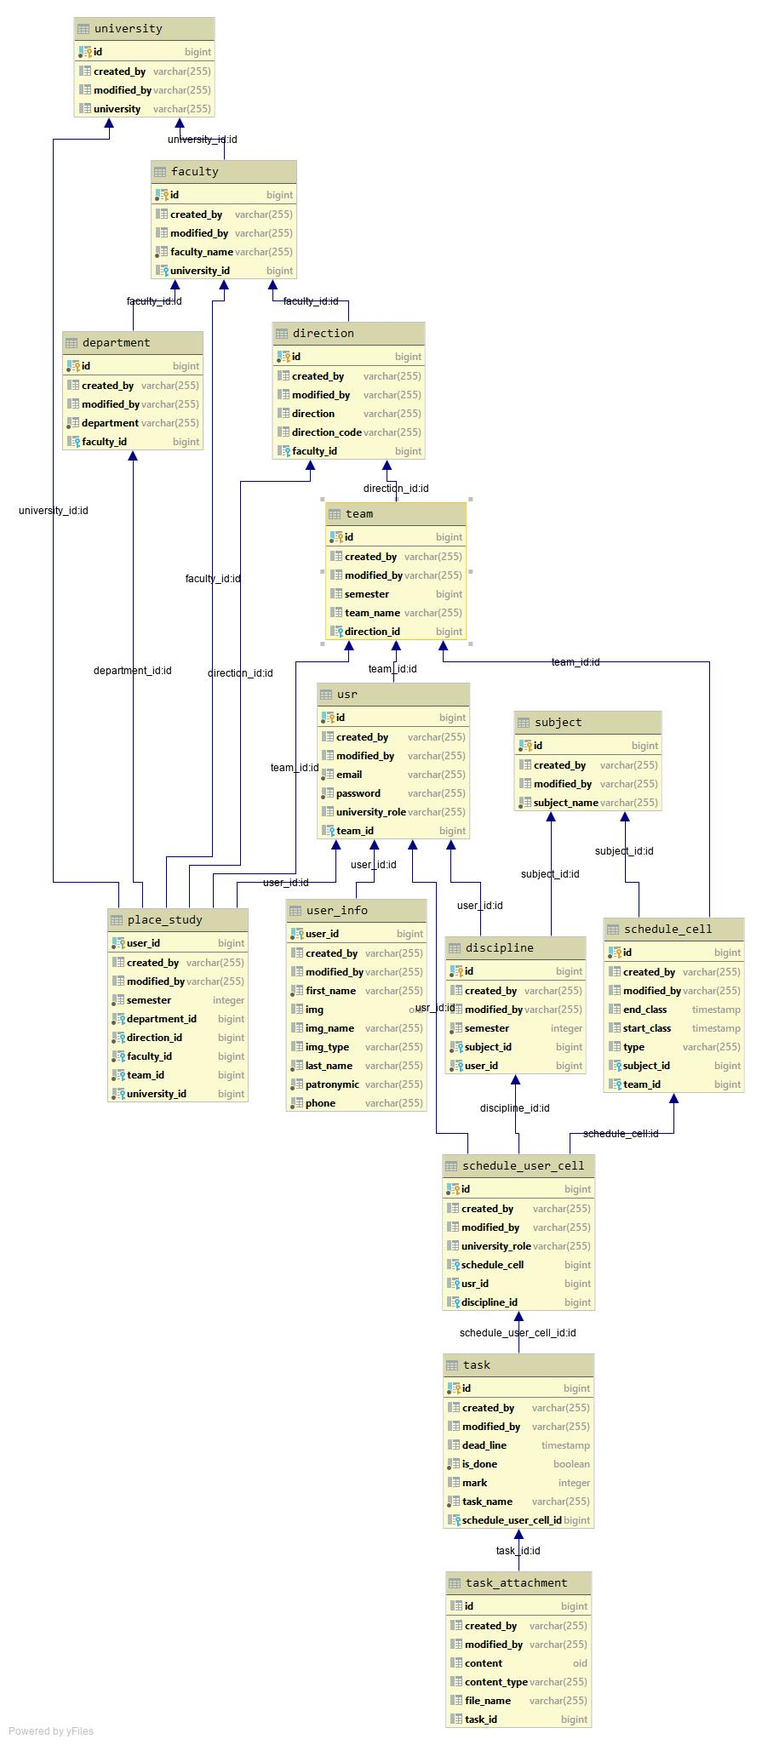
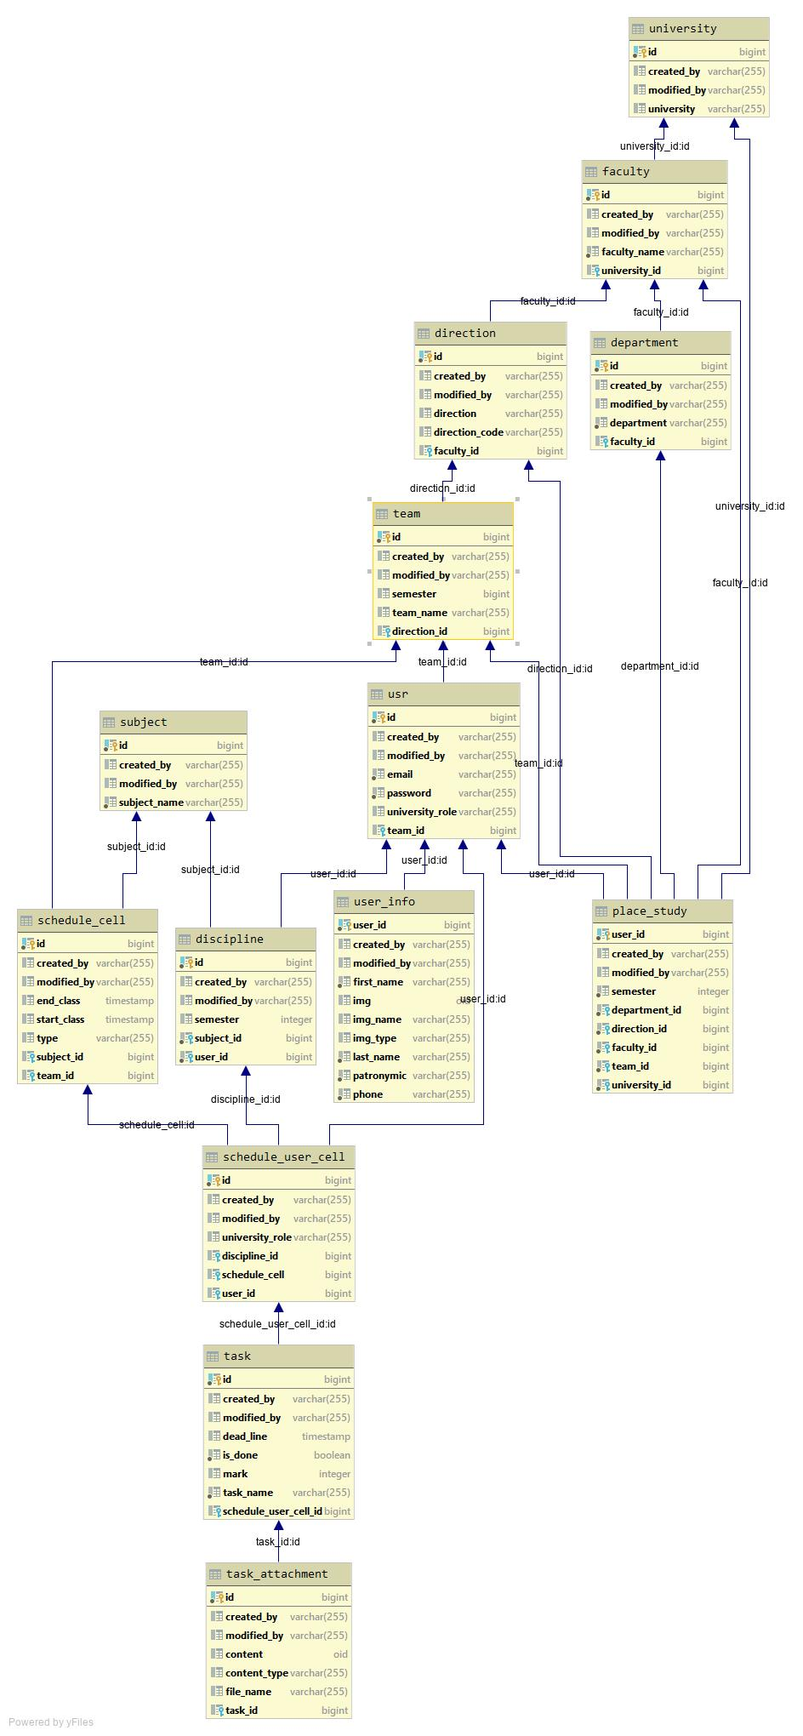
Убраны неиспользуемые pathVariable, Поиск task приведен в работоспособность. Проверено в postman. PathVariable окончательно вынесены в интерфейс. Оптимизированы URL для поиска task. Обновлён API.md Обновлено изображение схемы БД (один из usr_id исправлен на user_id, редуцированное поле появляться бо

diff --git a/endpoint/src/main/java/ru/studentsplatform/backend/endpoint/rest/crud/TaskCRUDController.java b/endpoint/src/main/java/ru/studentsplatform/backend/endpoint/rest/crud/TaskCRUDController.java
@@ -23,85 +23,65 @@ public interface TaskCRUDController extends AbstractCRUDController<TaskDTO> {
 	/**
 	 * Позволяет прикреплять к студенческой задаче файлы с решением.
 	 *
-	 * @param userId Id пользователя, которому принадлежит задача
-	 * @param cellId Id ячейки расписания пользователя, к которой прикреплена задача
 	 * @param taskId Идентификатор задачи, к которой будет прикреплено решение.
 	 * @param files  Файлы, которые будут прикреплены к залдаче
 	 * @return Ответ со статусом 200(ok),
 	 * содержащий сведения о том, удачно ли прикреплены все полученные файлы.
 	 */
-	@PostMapping("user/{userId}/schedule/cell/{cellId}/task/{taskId}/file")
-	ResponseEntity<Boolean> taskAddFiles(@PathVariable(name = "userId") Long userId,
-										 @PathVariable(name = "cellId") Long cellId,
-										 @PathVariable(name = "taskId") Long taskId,
+	@PostMapping("/{taskId}/file")
+	ResponseEntity<Boolean> taskAddFiles(@PathVariable(name = "taskId") Long taskId,
 										 @RequestParam(name = "file") MultipartFile... files);
 
 	/**
 	 * Загружает выбранный файл на компьютер.
 	 *
-	 * @param userId Id пользователя, которому принадлежит задача
-	 * @param cellId Id ячейки расписания пользователя, к которой прикреплена задача
 	 * @param taskId Id задачи, к которой прикреплен файл для загрузки
 	 * @param fileId Id файла дял загрузки
 	 * @return тело веб-страницы
 	 */
-	@GetMapping("user/{userId}/schedule/cell/{cellId}/task/{taskId}/file/{fileId}")
-	ResponseEntity<Resource> getFileRelatedToTask(@PathVariable(name = "userId") Long userId,
-												  @PathVariable(name = "cellId") Long cellId,
-												  @PathVariable(name = "taskId") Long taskId,
+	@GetMapping("{taskId}/file/{fileId}")
+	ResponseEntity<Resource> getFileRelatedToTask(@PathVariable(name = "taskId") Long taskId,
 												  @PathVariable(name = "fileId") Long fileId);
 
 	/**
 	 * Создает на основе полученных данных объект студенчекой задачи.
 	 *
-	 * @param userId Id пользователя, которому будет принадлежать задача
 	 * @param cellId Id ячейки расписания пользователя, к которой бует прикреплена задача
 	 * @param dto    Объект, содержащий данные, полученные от пользователя.
 	 * @return Ответ со статусом 200(ok), содержащий сведения о сохраненной сущности.
 	 */
-	@PostMapping("user/{userId}/schedule/cell/{cellId}/task")
-	ResponseEntity<TaskDTO> createTask(@PathVariable(name = "userId") Long userId,
-									   @PathVariable(name = "cellId") Long cellId,
+	@PostMapping("/cell/{cellId}/create")
+	ResponseEntity<TaskDTO> createTask(@PathVariable(name = "cellId") Long cellId,
 									   @RequestBody TaskDTO dto);
 
 	/**
 	 * Возвращает сведения о всех задачах, прикрепленных к ячейке расписания пользователя.
 	 *
-	 * @param userId Id пользователя, которому принадлежат задачи
 	 * @param cellId Id ячейки расписания пользователя, к которой прикреплены задачи
 	 * @return Ответ с кодом 200(ok), содержащий сведения о всех задачах, закрепленных за ячейкой
 	 */
-	@GetMapping("user/{userId}/schedule/cell/{cellId}/tasks")
-	ResponseEntity<List<TaskDTO>> getAllTasks(@PathVariable(name = "userId") Long userId,
-											  @PathVariable(name = "cellId") Long cellId);
+	@GetMapping("/cell/{cellId}")
+	ResponseEntity<List<TaskDTO>> getAllTasksForCell(@PathVariable(name = "cellId") Long cellId);
 
 	/**
 	 * Возвращает сведения о задаче с выбраным Id.
 	 *
-	 * @param userId Id пользователя, которому принадлежит задача
-	 * @param cellId Id ячейки расписания пользователя, к которой прикреплена задача
 	 * @param taskId Id задачи студента
 	 * @return Ответ с кодом 200(ok), содержащий сведения о задаче
 	 */
-	@GetMapping("user/{userId}/schedule/cell/{cellId}/task/{taskId}")
-	ResponseEntity<TaskDTO> getTask(@PathVariable(name = "userId") Long userId,
-									@PathVariable(name = "cellId") Long cellId,
-									@PathVariable(name = "taskId") Long taskId);
+	@GetMapping("/{taskId}")
+	ResponseEntity<TaskDTO> getTask(@PathVariable(name = "taskId") Long taskId);
 
 	/**
 	 * Возвращает сведения о задачах для конкретного пользователя
 	 * по степени их завершенности.
 	 *
 	 * @param userId Id пользователя, которому принадлежит задача
-	 * @param cellId Id ячейки расписания пользователя, к которой прикреплена задача
-	 * @param taskId Id задачи студента
 	 * @param isDone Завершена ли задача
 	 * @return Ответ с кодом 200(ok), содержащий сведения о задачах
 	 */
-	@GetMapping("user/{userId}/schedule/cell/{cellId}/task/{taskId}/isDone/{isDone}")
+	@GetMapping("user/{userId}/isDone/{isDone}")
 	ResponseEntity<List<TaskDTO>> getByDoneTaskForUser(@PathVariable(name = "userId") Long userId,
-													   @PathVariable(name = "cellId") Long cellId,
-													   @PathVariable(name = "taskId") Long taskId,
 													   @PathVariable(name = "isDone") Boolean isDone);
 
 	/**
@@ -109,46 +89,32 @@ public interface TaskCRUDController extends AbstractCRUDController<TaskDTO> {
 	 * по семестру.
 	 *
 	 * @param userId Id пользователя, которому принадлежит задача
-	 * @param cellId Id ячейки расписания пользователя, к которой прикреплена задача
-	 * @param taskId Id задачи студента
 	 * @param semester номер семестра
 	 * @return Ответ с кодом 200(ok), содержащий сведения о задачах
 	 */
-	@GetMapping("user/{userId}/schedule/cell/{cellId}/task/{taskId}/semester/{semester}")
+	@GetMapping("user/{userId}/semester/{semester}")
 	ResponseEntity<List<TaskDTO>> getTaskBySemesterForUser(@PathVariable(name = "userId") Long userId,
-														   @PathVariable(name = "cellId") Long cellId,
-														   @PathVariable(name = "taskId") Long taskId,
-														   @PathVariable(name = "semester") Long semester);
+														   @PathVariable(name = "semester") Integer semester);
 
 	/**
 	 * Возвращает сведения о задачах для конкретного пользователя
 	 * по предмету.
 	 *
 	 * @param userId Id пользователя, которому принадлежит задача
-	 * @param cellId Id ячейки расписания пользователя, к которой прикреплена задача
-	 * @param taskId Id задачи студента
 	 * @param subjectId Id предмета
 	 * @return Ответ с кодом 200(ok), содержащий сведения о задачах
 	 */
-	@GetMapping("user/{userId}/schedule/cell/{cellId}/task/{taskId}/subject/{subjectId}")
+	@GetMapping("user/{userId}/subject/{subjectId}")
 	ResponseEntity<List<TaskDTO>> getTaskBySubjectForUser(@PathVariable(name = "userId") Long userId,
-														  @PathVariable(name = "cellId") Long cellId,
-														  @PathVariable(name = "taskId") Long taskId,
 														  @PathVariable(name = "subjectId") Long subjectId);
 
 	/**
 	 * Возвращает сведения о задачах для группы студентов.
 	 *
-	 * @param userId Id пользователя, которому принадлежит задача
-	 * @param cellId Id ячейки расписания пользователя, к которой прикреплена задача
-	 * @param taskId Id задачи студента
 	 * @param groupID Id группы студентов
 	 * @return Ответ с кодом 200(ok), содержащий сведения о задачах
 	 */
-	@GetMapping("user/{userId}/schedule/cell/{cellId}/task/{taskId}/group/{subjectId}")
-	ResponseEntity<List<TaskDTO>> getTaskByGroup(@PathVariable(name = "userId") Long userId,
-														  @PathVariable(name = "cellId") Long cellId,
-														  @PathVariable(name = "taskId") Long taskId,
-														  @PathVariable(name = "groupId") Long groupID);
+	@GetMapping("group/{groupId}")
+	ResponseEntity<List<TaskDTO>> getTaskByGroup(@PathVariable(name = "groupId") Long groupID);
 }
 

diff --git a/endpoint/src/main/java/ru/studentsplatform/backend/endpoint/rest/crud/impl/TaskCRUDControllerImpl.java b/endpoint/src/main/java/ru/studentsplatform/backend/endpoint/rest/crud/impl/TaskCRUDControllerImpl.java
@@ -5,10 +5,7 @@ import org.springframework.core.io.Resource;
 import org.springframework.http.HttpHeaders;
 import org.springframework.http.MediaType;
 import org.springframework.http.ResponseEntity;
-import org.springframework.web.bind.annotation.PathVariable;
-import org.springframework.web.bind.annotation.RequestBody;
 import org.springframework.web.bind.annotation.RequestMapping;
-import org.springframework.web.bind.annotation.RequestParam;
 import org.springframework.web.bind.annotation.RestController;
 import org.springframework.web.multipart.MultipartFile;
 import ru.studentsplatform.backend.domain.dto.university.TaskDTO;
@@ -50,9 +47,7 @@ public class TaskCRUDControllerImpl implements TaskCRUDController {
 	 * {@inheritDoc}
 	 */
 	@Override
-	public ResponseEntity<TaskDTO> getTask(@PathVariable(name = "userId") Long userId,
-										   @PathVariable(name = "cellId") Long cellId,
-										   @PathVariable(name = "taskId") Long taskId) {
+	public ResponseEntity<TaskDTO> getTask(Long taskId) {
 
 		Task task = taskService.getById(taskId);
 		TaskDTO result = taskMapper.taskToTaskDTO(task);
@@ -64,8 +59,7 @@ public class TaskCRUDControllerImpl implements TaskCRUDController {
 	 * {@inheritDoc}
 	 */
 	@Override
-	public ResponseEntity<List<TaskDTO>> getAllTasks(@PathVariable(name = "userId") Long userId,
-													 @PathVariable(name = "cellId") Long cellId) {
+	public ResponseEntity<List<TaskDTO>> getAllTasksForCell(Long cellId) {
 
 		List<Task> taskList = taskService.getByUserCell(cellId);
 		List<TaskDTO> result = taskMapper.listTaskToTaskDTO(taskList);
@@ -77,9 +71,8 @@ public class TaskCRUDControllerImpl implements TaskCRUDController {
 	 * {@inheritDoc}
 	 */
 	@Override
-	public ResponseEntity<TaskDTO> createTask(@PathVariable(name = "userId") Long userId,
-											  @PathVariable(name = "cellId") Long cellId,
-											  @RequestBody TaskDTO dto) {
+	public ResponseEntity<TaskDTO> createTask(Long cellId,
+											  TaskDTO dto) {
 
 		dto.setScheduleUserCellId(cellId);
 		var task = taskMapper.taskDTOToTask(dto);
@@ -93,10 +86,8 @@ public class TaskCRUDControllerImpl implements TaskCRUDController {
 	 * {@inheritDoc}
 	 */
 	@Override
-	public ResponseEntity<Boolean> taskAddFiles(@PathVariable(name = "userId") Long userId,
-												@PathVariable(name = "cellId") Long cellId,
-												@PathVariable(name = "taskId") Long taskId,
-												@RequestParam(name = "file") MultipartFile... files) {
+	public ResponseEntity<Boolean> taskAddFiles(Long taskId,
+												MultipartFile... files) {
 
 		var result = taskService.addFilesForTask(taskId, Arrays.asList(files));
 
@@ -107,10 +98,8 @@ public class TaskCRUDControllerImpl implements TaskCRUDController {
 	 * {@inheritDoc}
 	 */
 	@Override
-	public ResponseEntity<Resource> getFileRelatedToTask(@PathVariable(name = "userId") Long userId,
-														 @PathVariable(name = "cellId") Long cellId,
-														 @PathVariable(name = "taskId") Long taskId,
-														 @PathVariable(name = "fileId") Long fileId) {
+	public ResponseEntity<Resource> getFileRelatedToTask(Long taskId,
+														 Long fileId) {
 
 		var file = taskAttachmentService.getByFileId(taskId, fileId);
 		var fileName = file.getFileName();
@@ -126,8 +115,6 @@ public class TaskCRUDControllerImpl implements TaskCRUDController {
 	 */
 	@Override
 	public ResponseEntity<List<TaskDTO>> getByDoneTaskForUser(Long userId,
-															  Long cellId,
-															  Long taskId,
 															  Boolean isDone) {
 		var entityList = taskService.getByIsDoneByUserId(userId, isDone);
 		var result = taskMapper.listTaskToTaskDTO(entityList);
@@ -139,9 +126,7 @@ public class TaskCRUDControllerImpl implements TaskCRUDController {
 	 */
 	@Override
 	public ResponseEntity<List<TaskDTO>> getTaskBySemesterForUser(Long userId,
-																  Long cellId,
-																  Long taskId,
-																  Long semester) {
+																  Integer semester) {
 		var entityList = taskService.getBySemesterForUser(userId, semester);
 		var result = taskMapper.listTaskToTaskDTO(entityList);
 		return ResponseEntity.ok(result);
@@ -152,8 +137,6 @@ public class TaskCRUDControllerImpl implements TaskCRUDController {
 	 */
 	@Override
 	public ResponseEntity<List<TaskDTO>> getTaskBySubjectForUser(Long userId,
-																 Long cellId,
-																 Long taskId,
 																 Long subjectId) {
 		var entityList = taskService.getBySubjectForUser(userId, subjectId);
 		var result = taskMapper.listTaskToTaskDTO(entityList);
@@ -164,7 +147,7 @@ public class TaskCRUDControllerImpl implements TaskCRUDController {
 	 * {@inheritDoc}
 	 */
 	@Override
-	public ResponseEntity<List<TaskDTO>> getTaskByGroup(Long userId, Long cellId, Long taskId, Long groupID) {
+	public ResponseEntity<List<TaskDTO>> getTaskByGroup(Long groupID) {
 		var entityList = taskService.getByTeamId(groupID);
 		var result = taskMapper.listTaskToTaskDTO(entityList);
 		return ResponseEntity.ok(result);

diff --git a/entities/src/main/java/ru/studentsplatform/backend/entities/model/university/Discipline.java b/entities/src/main/java/ru/studentsplatform/backend/entities/model/university/Discipline.java
@@ -5,6 +5,7 @@ import ru.studentsplatform.backend.entities.model.BaseEntity;
 import ru.studentsplatform.backend.entities.model.schedule.ScheduleUserCell;
 import ru.studentsplatform.backend.entities.model.user.User;
 
+import javax.persistence.Column;
 import javax.persistence.Entity;
 import javax.persistence.JoinColumn;
 import javax.persistence.ManyToOne;
@@ -16,8 +17,9 @@ import java.util.List;
 @Entity
 @Table(name = "discipline")
 public class Discipline extends BaseEntity {
+
 	@ManyToOne
-	@JoinColumn(nullable = false)
+	@JoinColumn(name = "user_id", nullable = false)
 	private User user;
 
 	@ManyToOne
@@ -28,5 +30,6 @@ public class Discipline extends BaseEntity {
 	@JoinColumn(name = "discipline_id")
 	private List<ScheduleUserCell> scheduleUserCells;
 
-	private int semester;
+	@Column(name = "semester")
+	private Integer semester;
 }

diff --git a/entities/src/main/java/ru/studentsplatform/backend/entities/model/schedule/ScheduleUserCell.java b/entities/src/main/java/ru/studentsplatform/backend/entities/model/schedule/ScheduleUserCell.java
@@ -23,7 +23,7 @@ import java.util.List;
 @Table(name = "schedule_user_cell")
 public class ScheduleUserCell extends BaseEntity {
 	@ManyToOne(fetch = FetchType.LAZY)
-	@JoinColumn(name = "usr_id")
+	@JoinColumn(name = "user_id")
 	private User user;
 
 	@ManyToOne(fetch = FetchType.LAZY)
@@ -38,6 +38,6 @@ public class ScheduleUserCell extends BaseEntity {
 	@Enumerated(EnumType.STRING)
 	private UniversityRoleEnum universityRole;
 
-	@OneToMany(fetch = FetchType.LAZY, mappedBy = "scheduleUserCell")
+	@OneToMany(fetch = FetchType.EAGER, mappedBy = "scheduleUserCell")
 	private List<Task> tasks;
 }

diff --git a/domain/src/main/java/ru/studentsplatform/backend/domain/repository/TaskRepository.java b/domain/src/main/java/ru/studentsplatform/backend/domain/repository/TaskRepository.java
@@ -21,7 +21,7 @@ public interface TaskRepository extends JpaRepository<Task, Long> {
 
 	@Query("select att from Task att where att.scheduleUserCell.user.id = :userId " +
 			"and att.scheduleUserCell.discipline.semester = :semester")
-	List<Task> findBySemesterByUserId(@Param("userId") Long userId, @Param("semester") Long semester);
+	List<Task> findBySemesterByUserId(@Param("userId") Long userId, @Param("semester") Integer semester);
 
 	@Query("select att from Task att where att.scheduleUserCell.user.id = :userId " +
 			"and att.scheduleUserCell.discipline.subject.id = :subjectId")

diff --git a/service/src/main/java/ru/studentsplatform/backend/service/crud/TaskService.java b/service/src/main/java/ru/studentsplatform/backend/service/crud/TaskService.java
@@ -97,7 +97,7 @@ public interface TaskService extends AbstractService<Task> {
 	 * @param semester Выбраный семестр
 	 * @return Лист задач, закрепленных за пользователем
 	 */
-	List<Task> getBySemesterForUser(Long userId, Long semester);
+	List<Task> getBySemesterForUser(Long userId, Integer semester);
 
 	/**
 	 * Найти все задачи по выбраному предмету, закрепленные за пользователем.

diff --git a/entities/src/main/java/ru/studentsplatform/backend/entities/model/university/Task.java b/entities/src/main/java/ru/studentsplatform/backend/entities/model/university/Task.java
@@ -30,10 +30,10 @@ public class Task extends BaseEntity {
 	@Column(name = "mark")
 	private Integer mark;
 
-	@ManyToOne(fetch = FetchType.LAZY)
+	@ManyToOne(fetch = FetchType.EAGER)
 	private ScheduleUserCell scheduleUserCell;
 
-	@OneToMany
+	@OneToMany(fetch = FetchType.EAGER)
 	@JoinColumn(name = "task_id")
 	private List<TaskAttachment> attachments;
 

diff --git a/service/src/main/java/ru/studentsplatform/backend/service/crud/impl/TaskServiceImpl.java b/service/src/main/java/ru/studentsplatform/backend/service/crud/impl/TaskServiceImpl.java
@@ -137,7 +137,7 @@ public class TaskServiceImpl implements TaskService {
 	 * {@inheritDoc}
 	 */
 	@Override
-	public List<Task> getBySemesterForUser(Long userId, Long semester) {
+	public List<Task> getBySemesterForUser(Long userId, Integer semester) {
 		return taskRepository.findBySemesterByUserId(userId, semester);
 	}
 

diff --git a/documentation/api.md b/documentation/api.md
@@ -12,7 +12,16 @@
     
 ###### Основное
 - Task
-    - **http://localhost:8080/user/3/schedule/cell/2/task/1/** - *Получить сведения о task c Id = 1, привязанной к ячейке с Id = 2, принадлежащей пользователю с Id = 3*
-    - **http://localhost:8080/user/2/schedule/cell/1/tasks** - *Получить сведения о всех task, привязанных к ячейке с Id = 1, принадлежащих пользователю с Id = 2*
-    - **http://localhost:8080/user/3/schedule/cell/2/task/1/file** - *Приложить файлы к task c Id = 1, привязаной к ячейке с Id = 2, принадлежащей пользователю с Id = 3*
-    - **http://localhost:8080/user/3/schedule/cell/2/task/1/file/1/** - *Получить файл с Id = 1, прикрепленный к task c Id = 2, привязаной к ячейке с Id = 3, принадлежащей пользователю с Id = 4*
+    -POST
+    - **http://localhost:8080/api/task/1/file** - *Прикрепить файл к задаче с Id = 1* (файлы прикреплять с именем значения "file")
+    - **http://localhost:8080/api/task/cell/1/create** - *Создаёт задачу, прикреплённую к ячейке пользовательского расписания с Id = 1*
+    
+    -GET
+    - **http://localhost:8080/api/task/1/** - *Получить сведения о task c Id = 1*
+    - **http://localhost:8080/api/task/cell/1/** - *Получить сведения о всех task, привязанных к ячейке с Id = 1*
+    - **http://localhost:8080/api/task/user/1/isDone/false** - *Поиск невыполненных заданий у пользователя с Id = 1*
+    - **http://localhost:8080/api/task/user/1/semester/1/** - *Поиск заданий у пользователя с Id = 1 в первом семестре*
+    - **http://localhost:8080/api/task/user/1/subject/2/** - *Поиск заданий у пользователя с Id = 1 по предмету с Id = 2*
+    - **http://localhost:8080/api/task/group/1** - *Поиск заданий у группы студенов с Id = 1*  
+    - **http://localhost:8080/api/task/1/file/1/** - *Получить файл с Id = 1, прикрепленный к task c Id = 2*
+    
